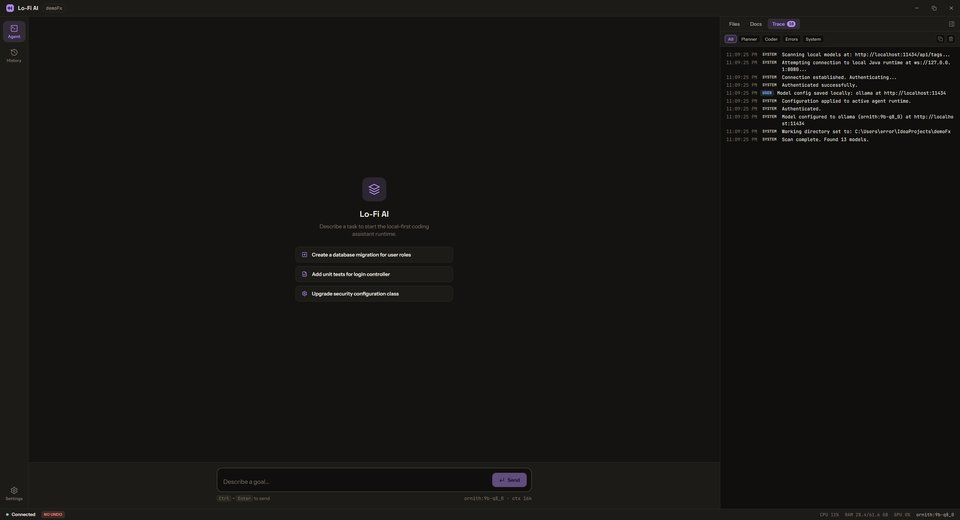
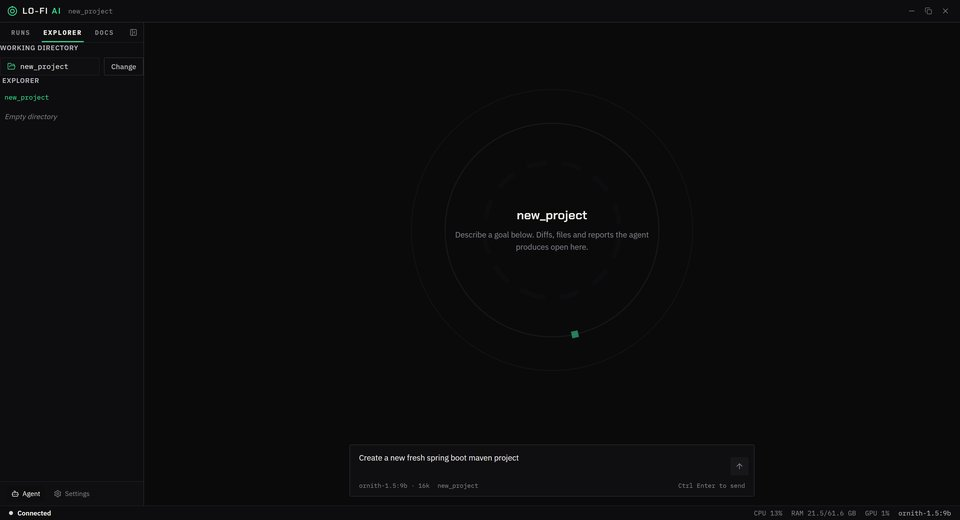
Update Lo-Fi AI card cover, alt text, and description
New screenshot of the agent workspace. Description rewritten to match the current repo README, which replaced the planner/coder/debugger mesh with a decider/editor ReAct loop and git rollback with shadow-repo undo.

diff --git a/index.html b/index.html
@@ -334,7 +334,7 @@
 
           <article class="project-card" data-tilt-card>
             <div class="project-thumb">
-              <img src="assets/lo-fi-ai.jpg" alt="Lo-Fi AI dashboard screenshot" loading="lazy">
+              <img src="assets/lo-fi-ai.jpg" alt="Lo-Fi AI agent workspace with file explorer and goal prompt" loading="lazy">
             </div>
             <div class="project-body">
               <div class="project-meta">
@@ -342,7 +342,7 @@
                 <span class="project-tech">Java + Vue + Electron</span>
               </div>
               <h3>Lo-Fi AI</h3>
-              <p>A local-first agent runtime with a glass-box dashboard: connects to your local LLM (Ollama, LM Studio) and orchestrates a mesh of small coding micro-agents, planner, coder, debugger, directly on your codebase. Every prompt, diff, and tool call is inspectable in real time, with per-step Git rollback if a patch chain breaks the build.</p>
+              <p>A local-first coding agent with a glass-box dashboard, built to run 9B models on a consumer GPU via Ollama or LM Studio. A ReAct loop of single-purpose micro-agents edits Java, JS/Vue, and Python projects, self-heals failing builds, and waits for your approval on every diff. Every prompt and tool call is inspectable, with per-step undo through a private shadow Git repo.</p>
               <div class="tag-row">
                 <span class="tag">Java</span>
                 <span class="tag">Vue</span>

diff --git a/Handover.md b/Handover.md
@@ -4,6 +4,7 @@
 This document tracks recent changes, current context, and next steps for the Developer Portfolio SPA project.
 
 ## Recent Changes
+- Replaced the Lo-Fi AI card cover (`assets/lo-fi-ai.jpg`) with a new screenshot of the agent workspace, resized to 960x520 JPG to match the other cards. Updated its alt text, and rewrote the card description to match the current `erroralex/Lo-Fi-AI` README (decider/editor ReAct loop, approval per diff, self-healing builds, shadow-git undo; the old "planner, coder, debugger" wording was stale). Stack and tags unchanged; repo is still private.
 - Removed Python and PyTorch icons (and their alt text) from the Tech Stack section's Languages and Data & ML skillicons.dev images.
 - Fixed the projects section rendering as a permanent empty (background-only) area on mobile: `initScrollReveal` in `script.js` used `IntersectionObserver({ threshold: 0.15 })`, which requires 15% of the *target's own area* to be visible at once before adding `.is-visible`. On a phone the projects grid stacks all 8 cards in a single column, making `#projects` far taller than the viewport (~5800px vs a ~700px mobile viewport), so 15% of its area could never be on-screen simultaneously and `is-visible` never fired, leaving the section at `opacity: 0` forever. Desktop's 3-column layout kept the section short enough to clear the threshold, which is why it only showed up on mobile. Changed to `threshold: 0, rootMargin: '0px 0px -10% 0px'` so reveal fires on first pixel of overlap instead of depending on the target's height. Verified via a scripted Playwright check at a 390x700 mobile viewport (reproduced `opacity: 0` on the old threshold, confirmed `opacity: 1` after the fix) and re-verified desktop still works.
 - Fixed a bug where whole sections (About/Stack/Projects/Journey/Contact) could render as a permanent black void: they were `opacity: 0` by default in CSS and only an `IntersectionObserver` in `script.js` ever revealed them. A direct `#section` link (jumping straight past sections before the observer attaches), a blocked/slow script load, or an error thrown by an unrelated init function could all leave a section invisible forever. Reworked so sections are visible by default and JS has to opt a section *into* the hidden state (`.reveal-armed`) right before observing it; each init function in `script.js` now runs independently so one throwing doesn't take down the rest.
